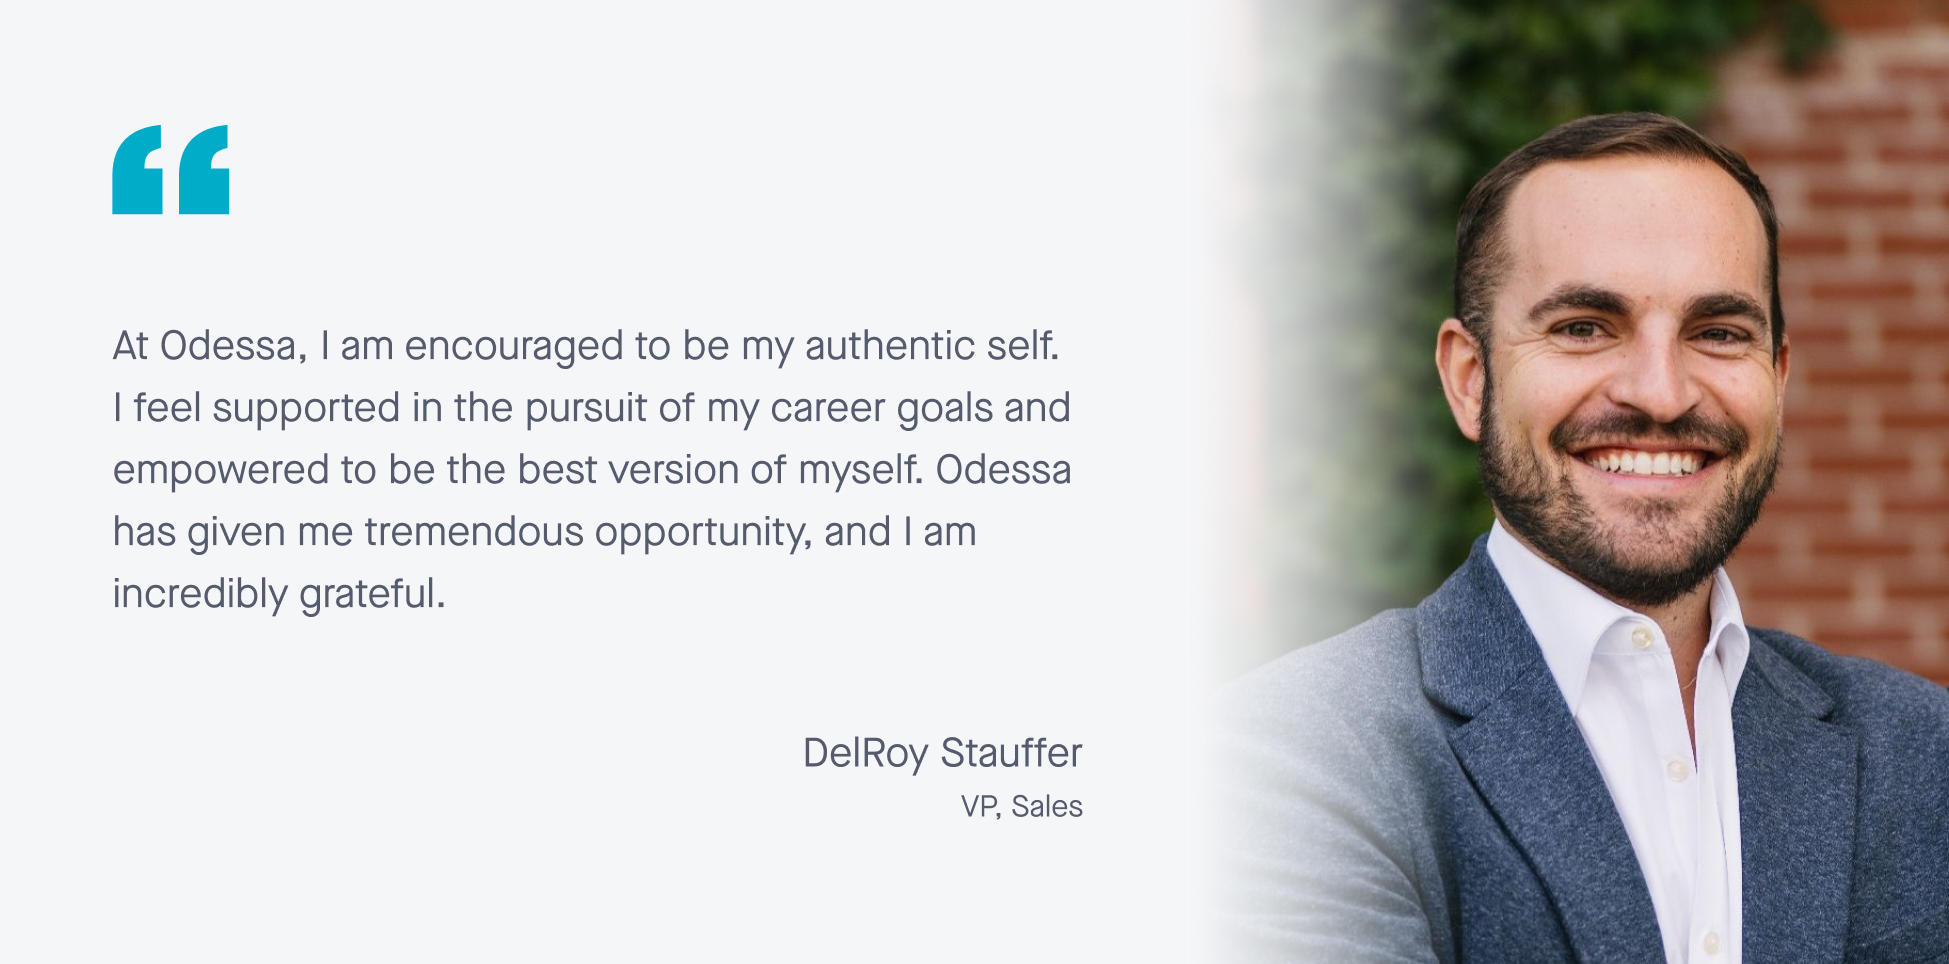
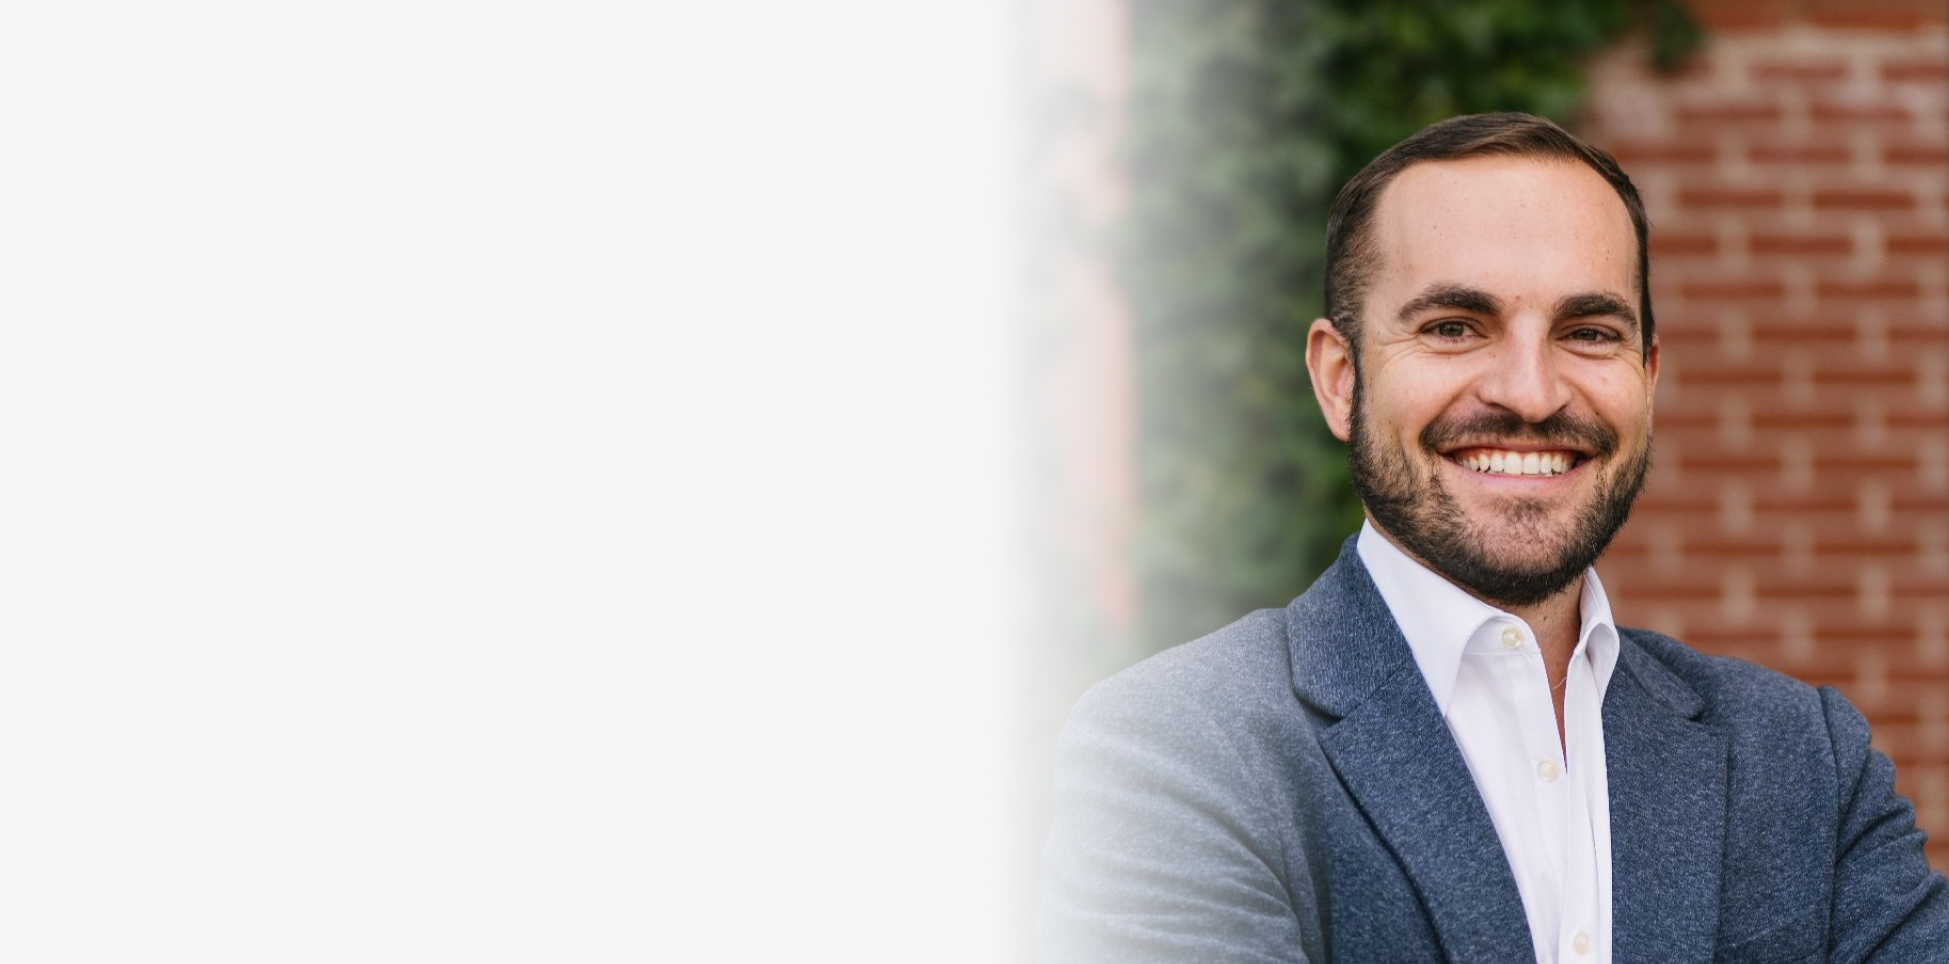
delroy-added

diff --git a/application/views/pages/amp_pages/company.amp.html b/application/views/pages/amp_pages/company.amp.html
@@ -160,9 +160,9 @@
 				<div class="resourcesinner">
 					<div class="row flexdiv">
 						<div class="col-sm-7 col-xs-12">
-							<!-- <div class="quotes_img"><amp-img src="<?= base_url(); ?>assets/images/companyimage/quotes.svg" alt="quotes" width="1" height="1" layout="responsive"></amp-img></div>
+							<div class="quotes_img"><amp-img src="<?= base_url(); ?>assets/images/companyimage/quotes.svg" alt="quotes" width="1" height="1" layout="responsive"></amp-img></div>
 							<p>At Odessa, I am encouraged to be my authentic self. I feel supported in the pursuit of my career goals and empowered to be the best version of myself. Odessa has given me tremendous opportunity, and I am incredibly grateful.</p>
-							<p class="memberinfo"> DelRoy Stauffer  <span>VP, Sales</span> </p> -->
+							<p class="memberinfo"> DelRoy Stauffer  <span>Vice President, Sales</span> </p>
 						</div>
 					</div>
 				</div>
@@ -171,7 +171,7 @@
 	</section>
 	<!--Resource End Here--> 
 		<!--Resource Start Here-->
-		<section class="resources resource1">
+		<!-- <section class="resources resource1">
 			<div class="container">
 				<div class="custom_containerwidth">
 					<div class="resourcesinner">
@@ -185,7 +185,7 @@
 					</div>
 				</div>
 			</div>
-		</section>
+		</section> -->
 		<!--Resource End Here--> 
 	<!--Get The Latest Start Here-->
 	<div class="getthelatestwrap">
